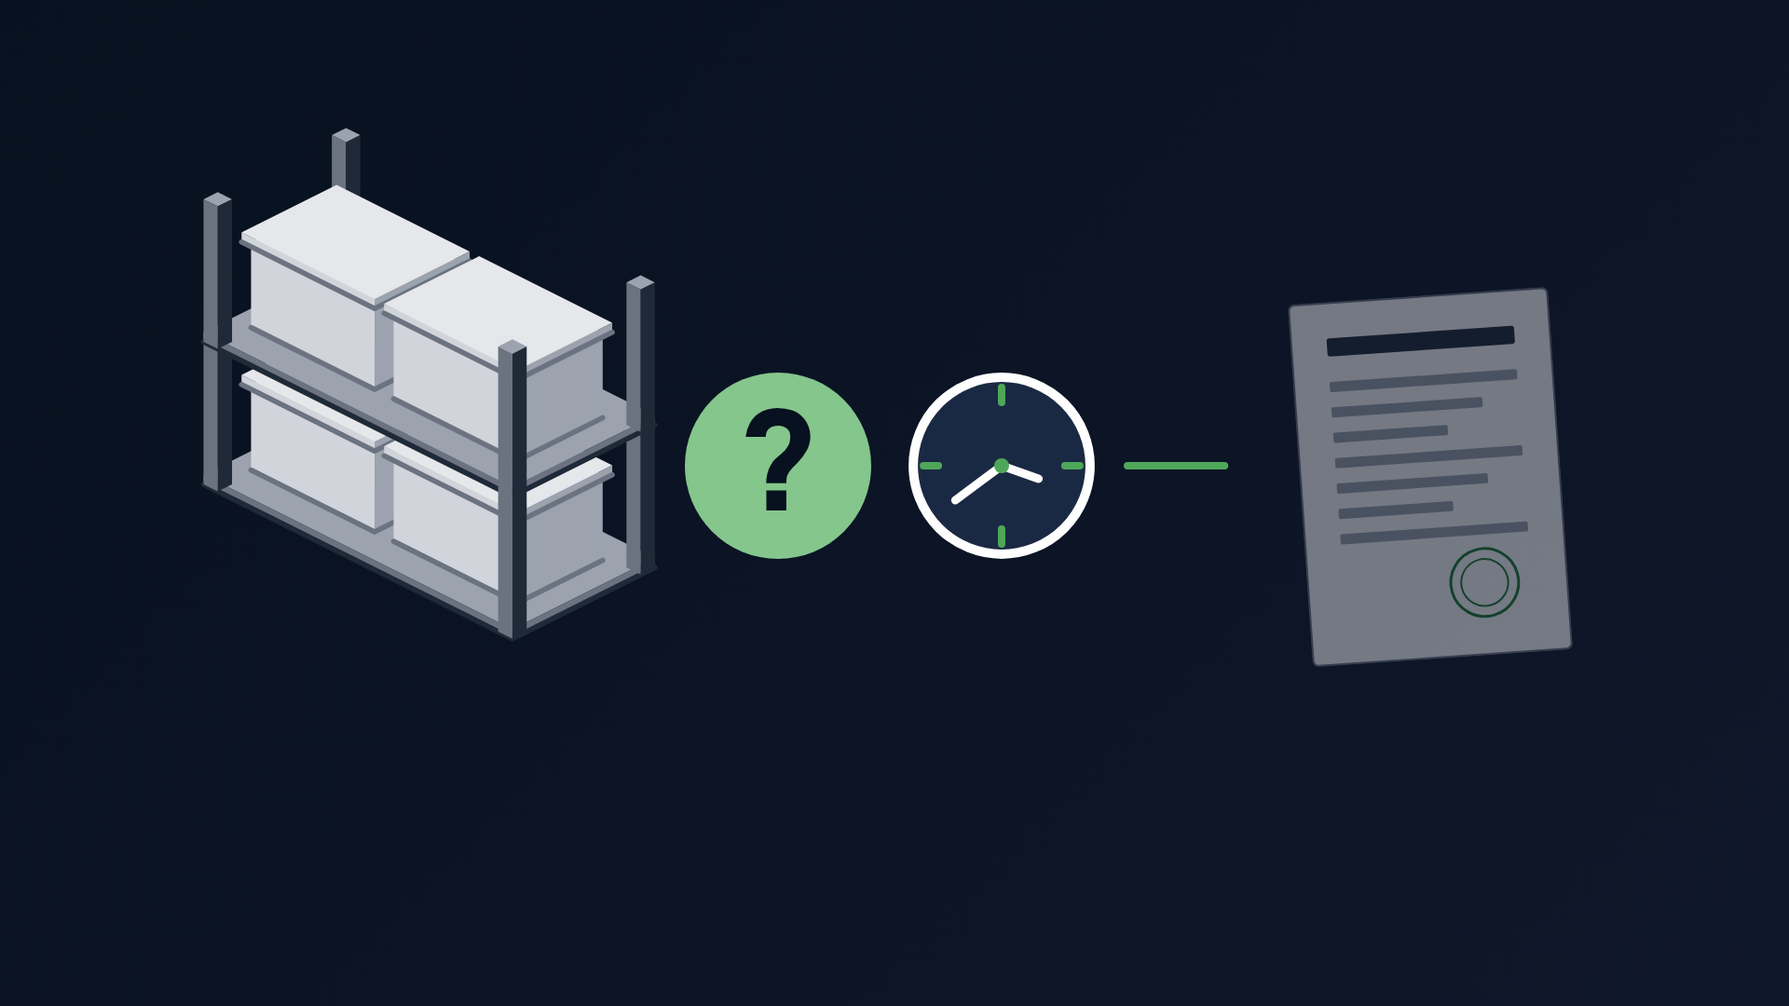
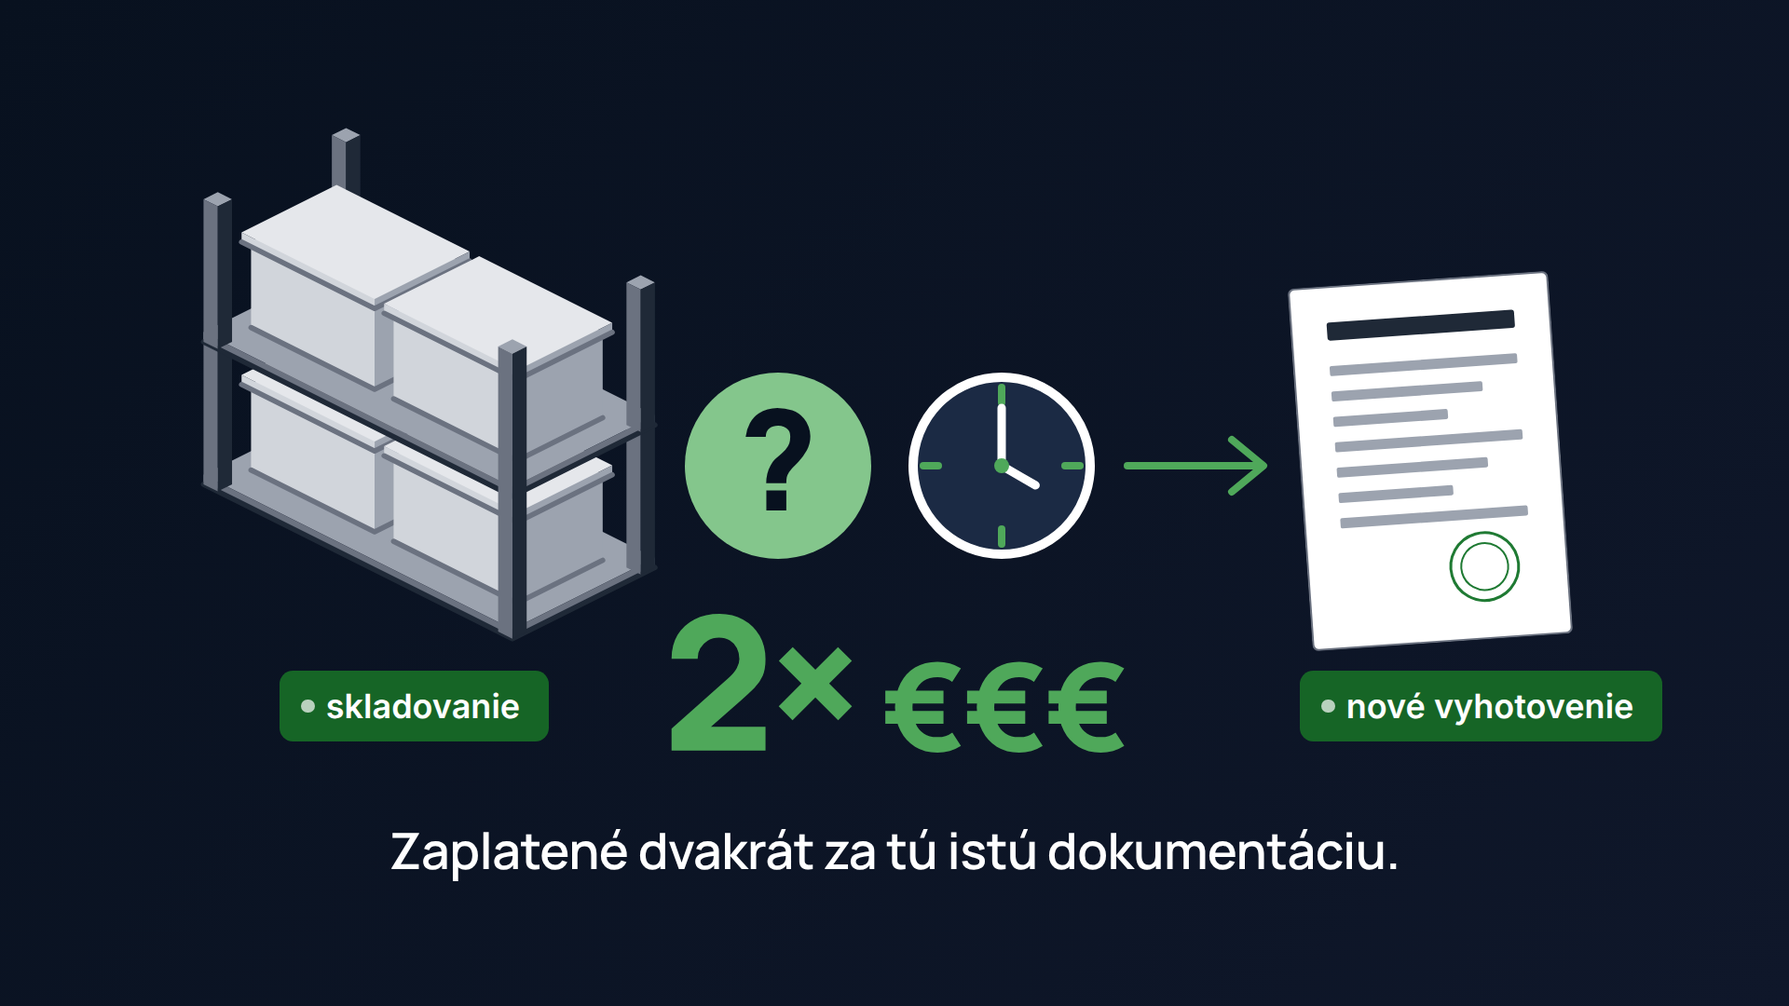
video: kolo 28 - texty v obraze (C2, C4, C8), nazvy faz namiesto Krok i/n, popis pod lockupom, patch render F klipov bez footage (96,9 s)
Claude-Session: https://claude.ai/code/session_01Mo5QFhkxpNfkUHYFdgzqUU

diff --git a/video/src/scenes/C4_Cena.tsx b/video/src/scenes/C4_Cena.tsx
@@ -28,11 +28,15 @@ import { CAM_END, SV, TARGET_SHELF, VB } from './C3_Sklad';
  * 5600-6100 vsetko vybledne, kamera na krabicu · 6300-7000 rozsvietenie ·
  * 6900 znacka, 7050 lockup (drzi 1 s) · 7900 znacka a lockup odchadzaju ·
  * 8100 krabica C5 sa usadi vlavo · 8200 paticka. 9 s.
+ * Kolo 28: texty v obraze (2500 "Hladanie trva...", 4700 "Zaplatene dvakrat..."),
+ * predel posunuty o D, znacka drzi o H dlhsie a pod lockupom je popis. 11,1 s.
  */
+const D = 1300; // posun predelu, aby sa dal precitat text pod "2x"
+const H = 800; // dlhsie drzanie znacky s popisom
 const BOX = 860;
 export const C4_Cena: React.FC = () => {
   const frame = useCurrentFrame();
-  const showCap = useCaptions();
+  const showCap = useCaptions(true);
   const tw = (s: number, d: number) => tween(frame, s, d);
   const bigQ = pop(frame, 1100);
   const clock = settle(frame, 2600);
@@ -44,19 +48,20 @@ export const C4_Cena: React.FC = () => {
   const big = pop(frame, 4400, { damping: 12 });
   const s = TARGET_SHELF;
   // predel problem -> riesenie
-  const out = 1 - tw(5600, 500); // cenovky, hodiny, vykres, "?" vyblednu
-  const light = tw(6300, 700); // cista prelinacka do bielej
-  const mark = settle(frame, 6900); // znacka sa objavi (bez kreslenia) a drzi ~1 s
-  const lockup = settle(frame, 7050);
-  const brandOut = tw(7900, 300);
-  const box = settle(frame, 8100);
-  const footer = tw(8200, 400);
+  const out = 1 - tw(5600 + D, 500); // cenovky, hodiny, vykres, "?" vyblednu
+  const light = tw(6300 + D, 700); // cista prelinacka do bielej
+  const mark = settle(frame, 6900 + D); // znacka sa objavi (bez kreslenia) a drzi ~1 s
+  const lockup = settle(frame, 7050 + D);
+  const desc = settle(frame, 7400 + D); // tichy popis pod lockupom
+  const brandOut = tw(7900 + D + H, 300);
+  const box = settle(frame, 8100 + D + H);
+  const footer = tw(8200 + D + H, 400);
   const CAM_MID = { x: CAM_END.x + 590 / CAM_END.scale, y: CAM_END.y + 70 / CAM_END.scale, scale: 1.5 };
   const boxLeft = C5_BOX_LEFT; // rovnaka poloha ako v C5 (krabica vlavo, vpravo kroky)
   const boxTop = SAFE.illoTop - 40;
   return (
     <Scene mode="dark" footer footerMode="light" footerOpacity={footer}>
-      <Camera keys={[{ ms: 0, ...CAM_END }, { ms: 1700, ...CAM_MID }, { ms: 5600, ...CAM_MID }, { ms: 6700, x: CAM_END.x, y: CAM_END.y, scale: 2.4 }]}>
+      <Camera keys={[{ ms: 0, ...CAM_END }, { ms: 1700, ...CAM_MID }, { ms: 5600 + D, ...CAM_MID }, { ms: 6700 + D, x: CAM_END.x, y: CAM_END.y, scale: 2.4 }]}>
         <svg width={1920} height={1080} viewBox={`${VB.x} ${VB.y} ${1920 / SV} ${1080 / SV}`} style={{ position: 'absolute', left: 0, top: 0 }}>
           <ShelfFrame x={s.x} y={s.y} w={CM.shelf.w} d={CM.shelf.d} levels={2} levelH={CM.shelf.level} topBoard={false}>
             {(lvl) => [0, 1].map((k) => <Carton key={`${lvl}${k}`} x={s.x + 8 + k * 60} y={s.y + 12} z={lvl * CM.shelf.level + 4} />)}
@@ -105,7 +110,12 @@ export const C4_Cena: React.FC = () => {
         <span style={{ fontFamily: FONT.display, fontWeight: 800, fontSize: 200, lineHeight: 0.9, color: BRAND[400], letterSpacing: '-0.04em' }}>2×</span>
         <span style={{ fontFamily: FONT.display, fontWeight: 800, fontSize: 130, lineHeight: 0.9, color: BRAND[400], letterSpacing: '-0.02em', marginLeft: 28 }}>€€€</span>
       </div>
-      {showCap ? <Caption text={captions.C4} mode="dark" t={settle(frame, 4800)} out={tw(5400, 300)} y={SAFE.captionY} /> : null}
+      {showCap ? (
+        <>
+          <Caption text={captions.C4a} mode="dark" t={settle(frame, 2500)} out={tw(4300, 300)} y={SAFE.captionY} />
+          <Caption text={captions.C4} mode="dark" t={settle(frame, 4700)} out={tw(5500 + D, 300)} y={SAFE.captionY} />
+        </>
+      ) : null}
 
       {/* prechod do bielej: cista prelinacka (bez svetelneho efektu) */}
       {light > 0 ? <div style={{ position: 'absolute', inset: 0, background: '#fff', opacity: light, pointerEvents: 'none' }} /> : null}
@@ -139,6 +149,10 @@ export const C4_Cena: React.FC = () => {
               </div>
             );
           })()}
+          {/* tichy popis pod lockupom (nie slogan) */}
+          <div style={{ position: 'absolute', left: 0, right: 0, top: 470 + LOCKUP.sepH * 0.6 + 56, textAlign: 'center', fontFamily: FONT.body, fontWeight: 500, fontSize: 30, letterSpacing: '0.01em', color: INK[500], opacity: desc, transform: `translateY(${(1 - desc) * 8}px)` }}>
+            {captions.C4brand}
+          </div>
         </div>
       ) : null}
 

diff --git a/video/src/scenes/C8_Pilot.tsx b/video/src/scenes/C8_Pilot.tsx
@@ -1,37 +1,46 @@
 import React from 'react';
 import { useCurrentFrame } from 'remotion';
 import { Scene, useCaptions } from '../components/Scene';
-import { Caption } from '../components/Text';
 import { ArchiveBox, archiveBoxPxPerCm } from '../components/ArchiveBox';
 import { Sheet } from '../components/Illustrations';
 import { pop, settle } from '../lib/anim';
-import { captions } from '../copy/sk';
+import { phases, pilot } from '../copy/sk';
+import { StepsPanel } from '../components/Steps';
 import { BRAND, CM, FONT, INK, SAFE } from '../theme';
 
-/** C8 - Pilot: jedna zatvorena krabica, QR doskoci, ikony 1-2-3 v mierke A4. 5 s. */
+/**
+ * C8 - Pilot: jedna zatvorena krabica, QR doskoci, ikony 1-2-3 v mierke A4
+ * s popiskami. Kolo 28: ilustracia posunuta dolava (OX), vpravo nadpis v rovnakom
+ * jazyku ako kroky riesenia. 7 s.
+ */
+const OX = -230;
 const BOX = 660;
 const PX = archiveBoxPxPerCm(BOX);
 const SHEET = { w: CM.sheet.w * PX, h: CM.sheet.h * PX };
 
 export const C8_Pilot: React.FC = () => {
   const frame = useCurrentFrame();
-  const showCap = useCaptions();
+  const showCap = useCaptions(true);
+  const title = settle(frame, 1300);
   const box = settle(frame, 300);
   const qr = pop(frame, 1000);
   const steps = [pop(frame, 2400), pop(frame, 2750), pop(frame, 3100)];
   const rowTop = SAFE.illoBottom - SHEET.h - 10;
-  const Step: React.FC<{ n: number; t: number; x: number; children: React.ReactNode }> = ({ n, t, x, children }) => (
-    <div style={{ position: 'absolute', left: x, top: rowTop, opacity: Math.min(1, t * 1.4), transform: `translateY(${(1 - t) * 24}px)` }}>
+  const Step: React.FC<{ n: number; t: number; x: number; label: string; children: React.ReactNode }> = ({ n, t, x, label, children }) => (
+    <div style={{ position: 'absolute', left: x + OX, top: rowTop, opacity: Math.min(1, t * 1.4), transform: `translateY(${(1 - t) * 24}px)` }}>
       {children}
       <div style={{ position: 'absolute', left: -22, top: -22, width: 48, height: 48, borderRadius: 24, background: BRAND[600], color: '#fff', fontFamily: FONT.display, fontWeight: 800, fontSize: 26, display: 'flex', alignItems: 'center', justifyContent: 'center', boxShadow: '0 0 0 4px #fff' }}>{n}</div>
+      {showCap ? (
+        <div style={{ position: 'absolute', left: SHEET.w / 2 - 170, width: 340, top: SHEET.h + 26, textAlign: 'center', fontFamily: FONT.display, fontWeight: 700, fontSize: 28, lineHeight: 1.2, color: INK[900] }}>{label}</div>
+      ) : null}
     </div>
   );
   return (
     <Scene mode="light" footer>
-      <div style={{ position: 'absolute', left: 960 - BOX / 2, top: -50, opacity: box, transform: `translateY(${(1 - box) * 30}px)` }}>
+      <div style={{ position: 'absolute', left: 960 - BOX / 2 + OX, top: -50, opacity: box, transform: `translateY(${(1 - box) * 30}px)` }}>
         <ArchiveBox state={{ lid: 0, binders: [0, 0, 0], qr: [0, 0, 0, qr] }} size={BOX} />
       </div>
-      <Step n={1} t={steps[0]} x={560}>
+      <Step n={1} t={steps[0]} x={560} label={pilot.labels[0]}>
         <div style={{ width: SHEET.w, height: SHEET.h, display: 'flex', alignItems: 'center', justifyContent: 'center' }}>
           <svg width={SHEET.w * 0.8} height={SHEET.w * 0.8} viewBox="0 0 24 24" fill="none" stroke={INK[700]} strokeWidth={1.6} strokeLinecap="round">
             <circle cx={10.5} cy={10.5} r={6.5} />
@@ -39,17 +48,17 @@ export const C8_Pilot: React.FC = () => {
           </svg>
         </div>
       </Step>
-      <Step n={2} t={steps[1]} x={960 - SHEET.w / 2}>
+      <Step n={2} t={steps[1]} x={960 - SHEET.w / 2} label={pilot.labels[1]}>
         <div style={{ transform: 'rotate(-4deg)' }}>
           <Sheet w={SHEET.w} h={SHEET.h} lines={5} qr />
         </div>
       </Step>
-      <Step n={3} t={steps[2]} x={1360 - SHEET.w}>
+      <Step n={3} t={steps[2]} x={1360 - SHEET.w} label={pilot.labels[2]}>
         <div style={{ transform: 'rotate(3deg)' }}>
           <Sheet w={SHEET.w} h={SHEET.h} lines={6} stamp />
         </div>
       </Step>
-      {showCap ? <Caption text={captions.C8} t={settle(frame, 1500)} y={SAFE.captionY} /> : null}
+      {showCap ? <StepsPanel frame={frame} steps={[{ from: 1300, title: pilot.title, line: pilot.line }]} phase={phases.pilot} left={1380} width={480} opacity={title} /> : null}
     </Scene>
   );
 };

diff --git a/video/src/components/Steps.tsx b/video/src/components/Steps.tsx
@@ -5,10 +5,10 @@ import { BRAND, FONT, INK } from '../theme';
 export type Step = { from: number; title: string; line: string }; // from v ms
 
 /**
- * Sprievodne kroky vpravo (Krok i / n, nazov, riadok, body postupu) - rovnaky
+ * Sprievodne kroky vpravo (nazov fazy, nazov kroku, riadok, body postupu) - rovnaky
  * jazyk v C5 aj pri footage. `frame` = aktualny frame klipu.
  */
-export const StepsPanel: React.FC<{ frame: number; steps: Step[]; left?: number; width?: number; top?: number; opacity?: number }> = ({ frame, steps, left = 1380, width = 500, top = 320, opacity = 1 }) => {
+export const StepsPanel: React.FC<{ frame: number; steps: Step[]; phase?: string; left?: number; width?: number; top?: number; opacity?: number }> = ({ frame, steps, phase, left = 1380, width = 500, top = 320, opacity = 1 }) => {
   const ms = (frame / 30) * 1000;
   const idx = Math.max(0, steps.findIndex((s, i) => ms >= s.from && (i === steps.length - 1 || ms < steps[i + 1].from)));
   return (
@@ -19,11 +19,11 @@ export const StepsPanel: React.FC<{ frame: number; steps: Step[]; left?: number;
         return (
           <div key={i} style={{ position: 'absolute', left: 0, right: 0, top, opacity: on * inT, transform: `translateY(${(1 - inT) * 16}px)` }}>
             <div style={{ fontFamily: FONT.body, fontWeight: 600, fontSize: 22, letterSpacing: '0.14em', textTransform: 'uppercase', color: BRAND[600], marginBottom: 14 }}>
-              Krok {i + 1} / {steps.length}
+              {phase ?? `Krok ${i + 1} / ${steps.length}`}
             </div>
             <div style={{ fontFamily: FONT.display, fontWeight: 800, fontSize: 56, lineHeight: 1.05, color: INK[900], letterSpacing: '-0.02em', marginBottom: 14 }}>{s.title}</div>
             <div style={{ fontFamily: FONT.body, fontWeight: 400, fontSize: 30, lineHeight: 1.35, color: INK[500] }}>{s.line}</div>
-            <div style={{ display: 'flex', gap: 10, marginTop: 28 }}>
+            <div style={{ display: steps.length > 1 ? 'flex' : 'none', gap: 10, marginTop: 28 }}>
               {steps.map((_, k) => (
                 <div key={k} style={{ width: k <= i ? 34 : 12, height: 12, borderRadius: 6, background: k <= i ? BRAND[500] : INK[200] }} />
               ))}

diff --git a/video/src/scenes/F2_Metadata.tsx b/video/src/scenes/F2_Metadata.tsx
@@ -2,6 +2,7 @@ import React from 'react';
 import { AbsoluteFill, OffthreadVideo, staticFile, useCurrentFrame } from 'remotion';
 import { FOOTAGE_WINDOW, WindowFrame } from '../components/Device';
 import { Step, StepsPanel } from '../components/Steps';
+import { phases } from '../copy/sk';
 import { settle, tween } from '../lib/anim';
 import { loadFonts } from '../lib/fonts';
 import { BRAND } from '../theme';
@@ -16,7 +17,7 @@ import { BRAND } from '../theme';
 export type Tap = { t: number; x: number; y: number }; // s, podiel sirky/vysky obsahu okna
 export type Mark = { from: number; to: number; x: number; y: number; w: number; h: number; sweep?: number }; // s, podiely obsahu okna; sweep = s, za ktore sa zvyraznenie "nakresli" zlava (ako fixkou)
 
-export const DesktopFootageClip: React.FC<{ src: string; seconds: number; steps: Step[]; taps?: Tap[]; marks?: Mark[]; enter?: boolean }> = ({ src, seconds, steps, taps = [], marks = [], enter = false }) => {
+export const DesktopFootageClip: React.FC<{ src: string; seconds: number; steps: Step[]; phase?: string; taps?: Tap[]; marks?: Mark[]; enter?: boolean }> = ({ src, seconds, steps, phase = phases.app, taps = [], marks = [], enter = false }) => {
   const frame = useCurrentFrame();
   const ms = (frame / 30) * 1000;
   const tw = (s: number, d: number) => tween(frame, s, d);
@@ -53,7 +54,7 @@ export const DesktopFootageClip: React.FC<{ src: string; seconds: number; steps:
           </div>
         </WindowFrame>
       </div>
-      <StepsPanel frame={frame} steps={steps} opacity={textIn} />
+      <StepsPanel frame={frame} steps={steps} phase={phase} opacity={textIn} />
       <AbsoluteFill style={{ background: '#fff', opacity: fadeOut, pointerEvents: 'none' }} />
     </AbsoluteFill>
   );

diff --git a/video/src/patch/PatchRoot.tsx b/video/src/patch/PatchRoot.tsx
@@ -1,0 +1,35 @@
+import React from 'react';
+import { AbsoluteFill, Composition, OffthreadVideo, staticFile } from 'remotion';
+import { FPS, H, W } from '../theme';
+import { SCENE_LIST } from '../scenesList';
+
+/**
+ * Nahradny render footage klipov bez zdrojoveho footage (public/footage nie je v gite):
+ * starsi render klipu (old/<ID>.mp4) je pod spodom a nova verzia klipu sa kresli
+ * iba v pase vpravo od zariadenia (panel s krokmi). Hodi sa, ked sa meni len text krokov.
+ * Public dir musi obsahovat old/<ID>.mp4 a footage/* (lubovolne mp4, v orezanej casti sa nezobrazia).
+ *   npx remotion render src/patch/index.ts Patch-F3-Vyhladavanie out/mp4/F3-Vyhladavanie.mp4 --public-dir=<dir>
+ */
+const PANEL_LEFT: Record<string, number> = {
+  'F1-Sken': 880, // mobil konci na x 815, text zacina na 960
+  'F2-Metadata': 1368, // okno konci na x 1340, kroky zacinaju na 1380
+  'F3-Vyhladavanie': 1368,
+  'F4-Kontrola': 1368,
+};
+
+const Patch: React.FC<{ id: string; Comp: React.FC }> = ({ id, Comp }) => (
+  <AbsoluteFill style={{ background: '#fff' }}>
+    <OffthreadVideo src={staticFile(`old/${id}.mp4`)} muted />
+    <AbsoluteFill style={{ clipPath: `inset(0 0 0 ${PANEL_LEFT[id]}px)` }}>
+      <Comp />
+    </AbsoluteFill>
+  </AbsoluteFill>
+);
+
+export const PatchRoot: React.FC = () => (
+  <>
+    {SCENE_LIST.filter(([id]) => id in PANEL_LEFT).map(([id, s]) => (
+      <Composition key={id} id={`Patch-${id}`} component={() => <Patch id={id} Comp={s.component} />} durationInFrames={Math.round(s.seconds * FPS)} fps={FPS} width={W} height={H} />
+    ))}
+  </>
+);

diff --git a/video/src/copy/sk.ts b/video/src/copy/sk.ts
@@ -1,16 +1,33 @@
 /** Vsetky texty v obraze. Zdroj: brozura Assetin Archives (12 stran). */
 /** Kolo 2: jediny text v obraze per klip, max ~7 slov. */
 export const captions = {
-  C2: 'Dokumentáciu máte. V kancelárii, v sklade… niekde.',
+  C2: 'Dokumentáciu k objektom máte.',
   C2b: 'Len ju nikto nevie nájsť.',
   C2v1: 'Dokumentáciu máte. Nikto ju nevie nájsť.',
   C3a: 'V sklade to nie je lepšie.',
   C3b: 'Je to niekde tam.',
+  C4a: 'Hľadanie trvá dlhšie než nové vyhotovenie.',
   C4: 'Zaplatené dvakrát za tú istú dokumentáciu.',
+  C4brand: 'Digitálna katalogizácia archívnej dokumentácie',
   C5: 'Nalepiť QR, odfotiť. Celá práca v teréne.',
   C6: 'Text z fotky rozpozná a navrhne údaje.',
   C7: 'Každá položka má svoje miesto.',
   C8: 'Začneme jednou krabicou.',
+};
+
+/** Kolo 28: nazvy faz namiesto "Krok i / n" (kroky vpravo). */
+export const phases = {
+  teren: 'V teréne',
+  app: 'V aplikácii',
+  search: 'Vyhľadávanie',
+  pilot: 'Prvý krok',
+};
+
+/** C8: nadpis vpravo a popisky pod ikonami 1-2-3. */
+export const pilot = {
+  title: 'Začneme jednou krabicou.',
+  line: 'Nie celým archívom. Výsledok uvidíte na vlastnej dokumentácii.',
+  labels: ['Obhliadka skladu', 'Pilot na jednej krabici', 'Rozsah a ponuka'],
 };
 
 export const sk = {

diff --git a/video/src/scenesList.ts b/video/src/scenesList.ts
@@ -22,7 +22,7 @@ export type SceneDef = { component: React.FC; seconds: number; stills: number[] 
 export const SCENE_LIST: [string, SceneDef][] = [
   ['C1-Intro', { component: C1_Intro, seconds: 4, stills: [45, 65, 100] }],
   ['C2-Hladanie', { component: C2_Hladanie, seconds: 10.5, stills: [80, 160, 240] }],
-  ['C4-Cena', { component: C4_Cena, seconds: 9, stills: [10, 100, 180, 255] }],
+  ['C4-Cena', { component: C4_Cena, seconds: 11.1, stills: [100, 180, 285, 325] }],
   ['C5-Teren', { component: C5_Teren, seconds: 9, stills: [70, 160, 260] }],
   ['F1-Sken', { component: F1_Sken, seconds: 10.5, stills: [20, 150, 270] }],
   ['C7-Hierarchia', { component: C7_Hierarchia, seconds: 5, stills: [15, 80, 120] }],
@@ -30,7 +30,7 @@ export const SCENE_LIST: [string, SceneDef][] = [
   ['F2-Metadata', { component: F2_Metadata, seconds: 7, stills: [20, 90, 180] }],
   ['F4-Kontrola', { component: F4_Kontrola, seconds: 15.4, stills: [20, 110, 360] }],
   ['F3-Vyhladavanie', { component: F3_Vyhladavanie, seconds: 10.3, stills: [30, 150, 280] }],
-  ['C8-Pilot', { component: C8_Pilot, seconds: 5, stills: [40, 90, 140] }],
+  ['C8-Pilot', { component: C8_Pilot, seconds: 7, stills: [50, 110, 190] }],
   ['C9-Outro', { component: C9_Outro, seconds: 4, stills: [40, 100] }],
 ];
 

diff --git a/video/src/scenes/C5_Teren.tsx b/video/src/scenes/C5_Teren.tsx
@@ -6,7 +6,7 @@ import { ArchiveBox, archiveBoxPxPerCm, QR_SCALE } from '../components/ArchiveBo
 import { FOOTAGE_PHONE, PhoneFrame } from '../components/Device';
 import { Camera } from '../lib/camera';
 import { pop, settle, tween } from '../lib/anim';
-import { captions } from '../copy/sk';
+import { captions, phases } from '../copy/sk';
 import { BRAND, CM, FONT, INK, ISO, SAFE } from '../theme';
 
 /**
@@ -276,7 +276,7 @@ export const C5_Teren: React.FC = () => {
           return (
             <div key={i} style={{ position: 'absolute', left: 0, right: 0, top: 320, opacity: on * inT, transform: `translateY(${(1 - inT) * 16}px)` }}>
               <div style={{ fontFamily: FONT.body, fontWeight: 600, fontSize: 22, letterSpacing: '0.14em', textTransform: 'uppercase', color: BRAND[600], marginBottom: 14 }}>
-                Krok {i + 1} / {STEPS.length}
+                {phases.teren}
               </div>
               <div style={{ fontFamily: FONT.display, fontWeight: 800, fontSize: 56, lineHeight: 1.05, color: INK[900], letterSpacing: '-0.02em', marginBottom: 14 }}>{s.title}</div>
               <div style={{ fontFamily: FONT.body, fontWeight: 400, fontSize: 30, lineHeight: 1.35, color: INK[500] }}>{s.line}</div>

diff --git a/video/src/scenes/F1_Sken.tsx b/video/src/scenes/F1_Sken.tsx
@@ -3,6 +3,7 @@ import { AbsoluteFill, OffthreadVideo, staticFile, useCurrentFrame } from 'remot
 import { FOOTAGE_PHONE, PHONE_BEZEL, PhoneFrame } from '../components/Device';
 import { settle, tween } from '../lib/anim';
 import { loadFonts } from '../lib/fonts';
+import { phases } from '../copy/sk';
 import { BRAND, FONT, INK } from '../theme';
 
 /**
@@ -93,7 +94,7 @@ export const FootageClip: React.FC<{ src: string; seconds: number; taps?: Tap[];
           return (
             <div key={i} style={{ position: 'absolute', left: 0, right: 0, opacity: on * inT, transform: `translateY(${(1 - inT) * 16}px)` }}>
               <div style={{ fontFamily: FONT.body, fontWeight: 600, fontSize: 24, letterSpacing: '0.14em', textTransform: 'uppercase', color: BRAND[600], marginBottom: 18 }}>
-                Krok {i + 1} / {steps.length}
+                {phases.teren}
               </div>
               <div style={{ fontFamily: FONT.display, fontWeight: 800, fontSize: 64, lineHeight: 1.05, color: INK[900], letterSpacing: '-0.02em', marginBottom: 18 }}>{s.title}</div>
               <div style={{ fontFamily: FONT.body, fontWeight: 400, fontSize: 34, lineHeight: 1.35, color: INK[500], maxWidth: 640 }}>{s.line}</div>

diff --git a/video/src/scenes/C7_Hierarchia.tsx b/video/src/scenes/C7_Hierarchia.tsx
@@ -9,7 +9,7 @@ import { Camera } from '../lib/camera';
 import { Binder, Carton, IsoBox, QrOnLeftFace, ShelfFrame, iso, pts } from '../lib/iso';
 import { drawProps, pop, settle, tween } from '../lib/anim';
 import { Check } from '../components/Illustrations';
-import { captions } from '../copy/sk';
+import { captions, phases } from '../copy/sk';
 import { BRAND, FONT, INK, ISO, SAFE } from '../theme';
 
 /**
@@ -189,7 +189,7 @@ export const C7_Hierarchia: React.FC = () => {
         </div>
       </Camera>
 
-      <StepsPanel frame={frame} steps={C7_STEPS} left={1400} width={480} opacity={treeOut} />
+      <StepsPanel frame={frame} steps={C7_STEPS} phase={phases.teren} left={1400} width={480} opacity={treeOut} />
       <div style={{ position: 'absolute', inset: 0, opacity: 0 }}>
         <PhoneFrame at={PHONE_AT} rotate={-6}>
           <div style={{ position: 'absolute', inset: 0, background: '#fff' }}>

diff --git a/video/src/scenes/F3_Vyhladavanie.tsx b/video/src/scenes/F3_Vyhladavanie.tsx
@@ -1,6 +1,7 @@
 import React from 'react';
 import { Step } from '../components/Steps';
 import { DesktopFootageClip, Mark, Tap } from './F2_Metadata';
+import { phases } from '../copy/sk';
 
 /**
  * F3 - Vyhladavanie (16 s zaznam zostrihany na 10,3 s): rovnake zastavky
@@ -22,4 +23,4 @@ const F3_MARKS: Mark[] = [
   { from: 0.4, to: 2.2, x: 0.108, y: 0.462, w: 0.075, h: 0.05, sweep: 1.3 }, // pisane slovo "vodovod" - jemna fixka zlava
 ];
 /** F3 zacina z bielej (F4 konci fade-om), okno sa objavi. */
-export const F3_Vyhladavanie: React.FC = () => <DesktopFootageClip src="footage/f3-search.mp4" seconds={F3_SECONDS} steps={F3_STEPS} taps={F3_TAPS} marks={F3_MARKS} enter />;
+export const F3_Vyhladavanie: React.FC = () => <DesktopFootageClip src="footage/f3-search.mp4" seconds={F3_SECONDS} steps={F3_STEPS} phase={phases.search} taps={F3_TAPS} marks={F3_MARKS} enter />;

diff --git a/video/src/components/Scene.tsx b/video/src/components/Scene.tsx
@@ -8,10 +8,11 @@ import { loadFonts } from '../lib/fonts';
  * v brozure (na svetlych stranach), zeleny pas dole na tmavych.
  */
 /** Render bez textu: `npx remotion render <ID> --props='{"captions":false}'` */
-export const useCaptions = () => {
+export const useCaptions = (defaultOn = false) => {
   const p = getInputProps() as { captions?: boolean };
-  // titulky su predvolene vypnute (doriesia sa neskor); zapne ich prop captions: true
-  return p.captions === true;
+  // kolo 28: C2, C4 a C8 maju text predvolene zapnuty (defaultOn), ostatne klipy nesu text v krokoch vpravo;
+  // prop captions: true/false prepise predvolbu pre vsetky klipy
+  return p.captions ?? defaultOn;
 };
 
 export const Scene: React.FC<{ mode?: Mode; footer?: boolean; footerOpacity?: number; footerMode?: Mode; band?: boolean; children: React.ReactNode }> = ({
